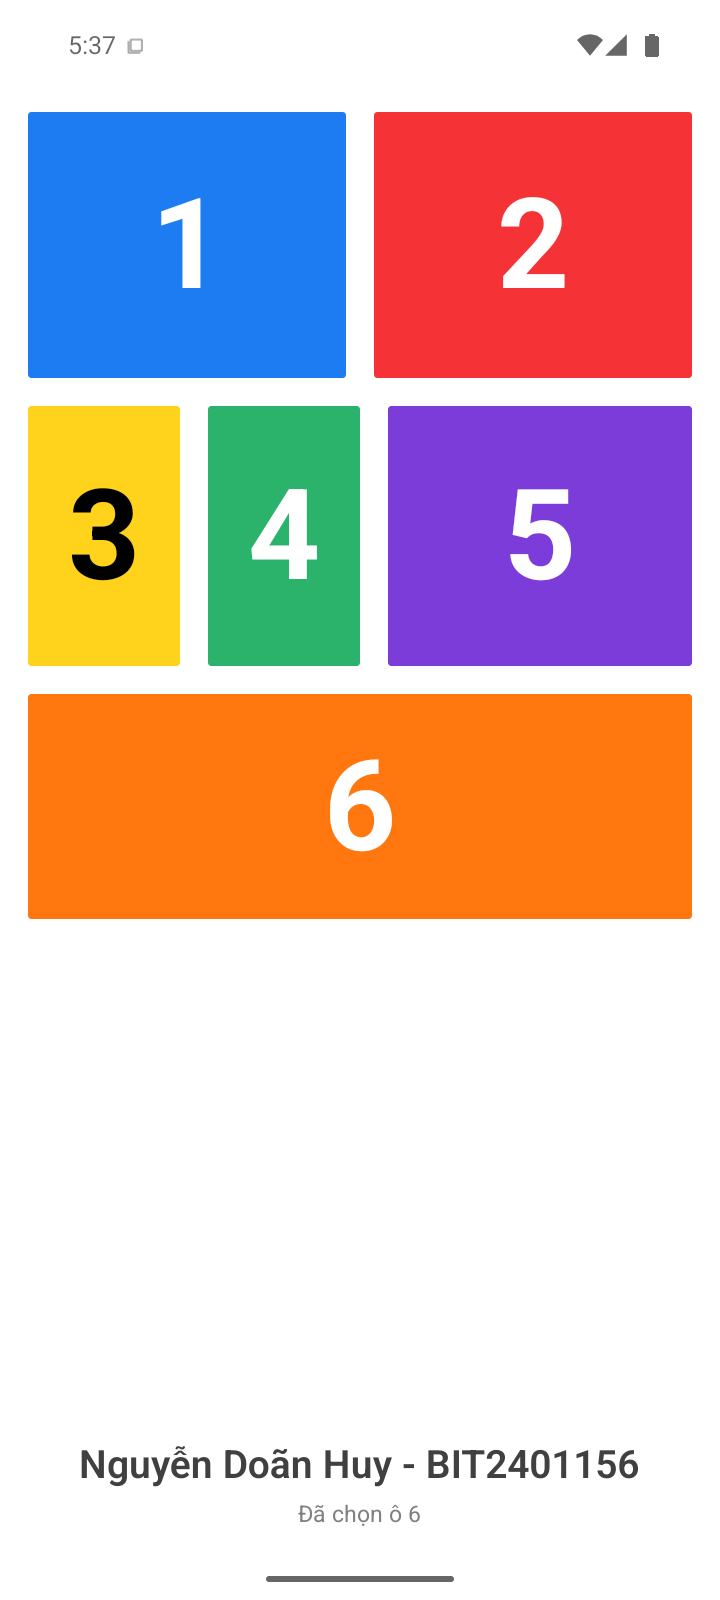
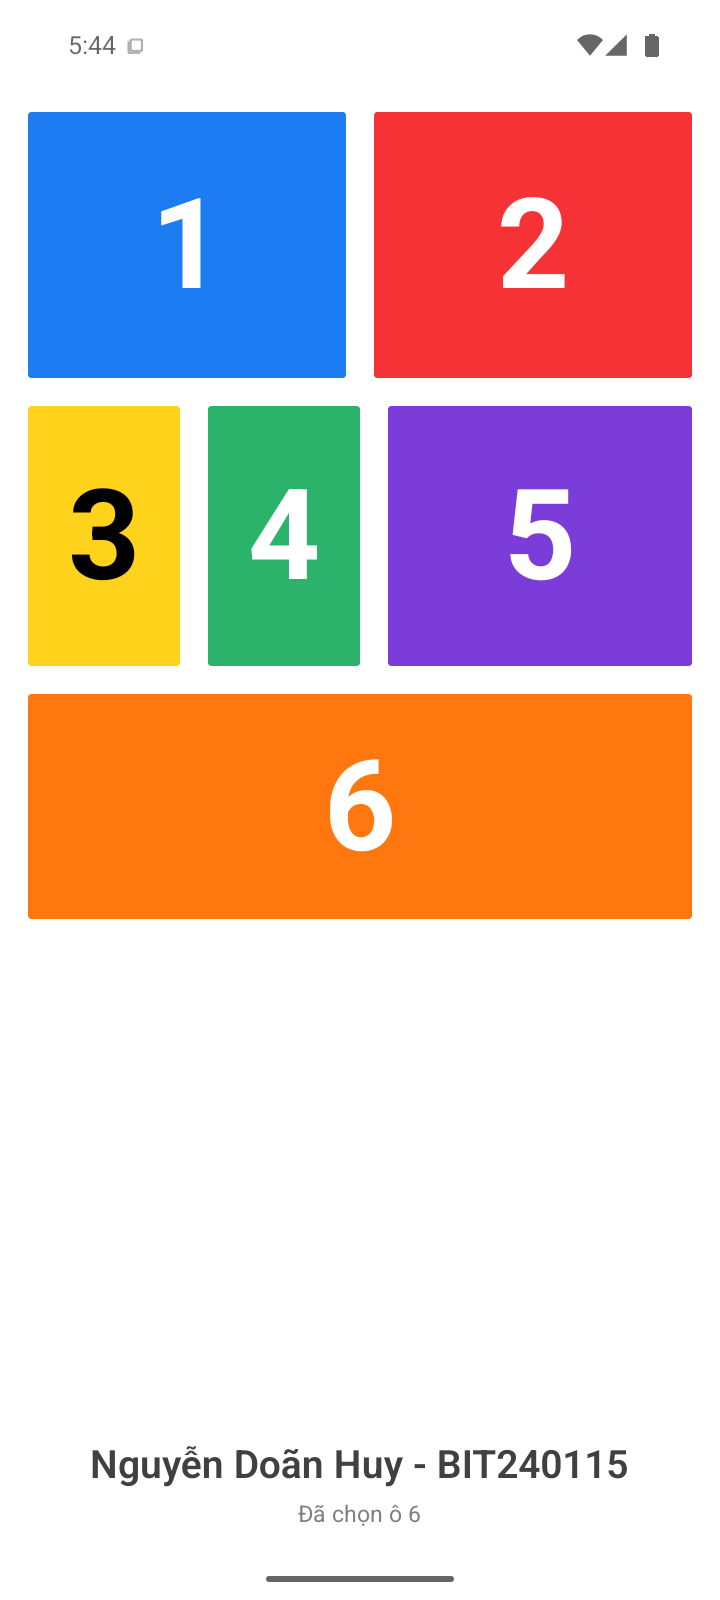
Correct Bt_01 student ID to BIT240115

Changed region(s): [[0.0917, 0.9062, 0.8861, 0.9375], [0.1222, 0.0, 0.1528, 0.0312]]

diff --git a/Bt_01/App.js b/Bt_01/App.js
@@ -81,7 +81,7 @@ export default function App() {
           </View>
 
           <View style={styles.studentInfo}>
-            <Text style={styles.studentName}>Nguyễn Doãn Huy - BIT2401156</Text>
+            <Text style={styles.studentName}>Nguyễn Doãn Huy - BIT240115</Text>
             {selectedTile ? (
               <Text style={styles.selectionHint}>Đã chọn ô {selectedTile}</Text>
             ) : null}

diff --git a/Bt_01/README.md b/Bt_01/README.md
@@ -1,6 +1,6 @@
 # Bt_01 - Giao diện ứng dụng di động
 
-Sinh viên: **Nguyễn Doãn Huy - BIT2401156**
+Sinh viên: **Nguyễn Doãn Huy - BIT240115**
 
 Ứng dụng React Native/Expo hiển thị sáu ô màu theo đề bài. Chạm vào một ô để xem số đã chọn.
 
